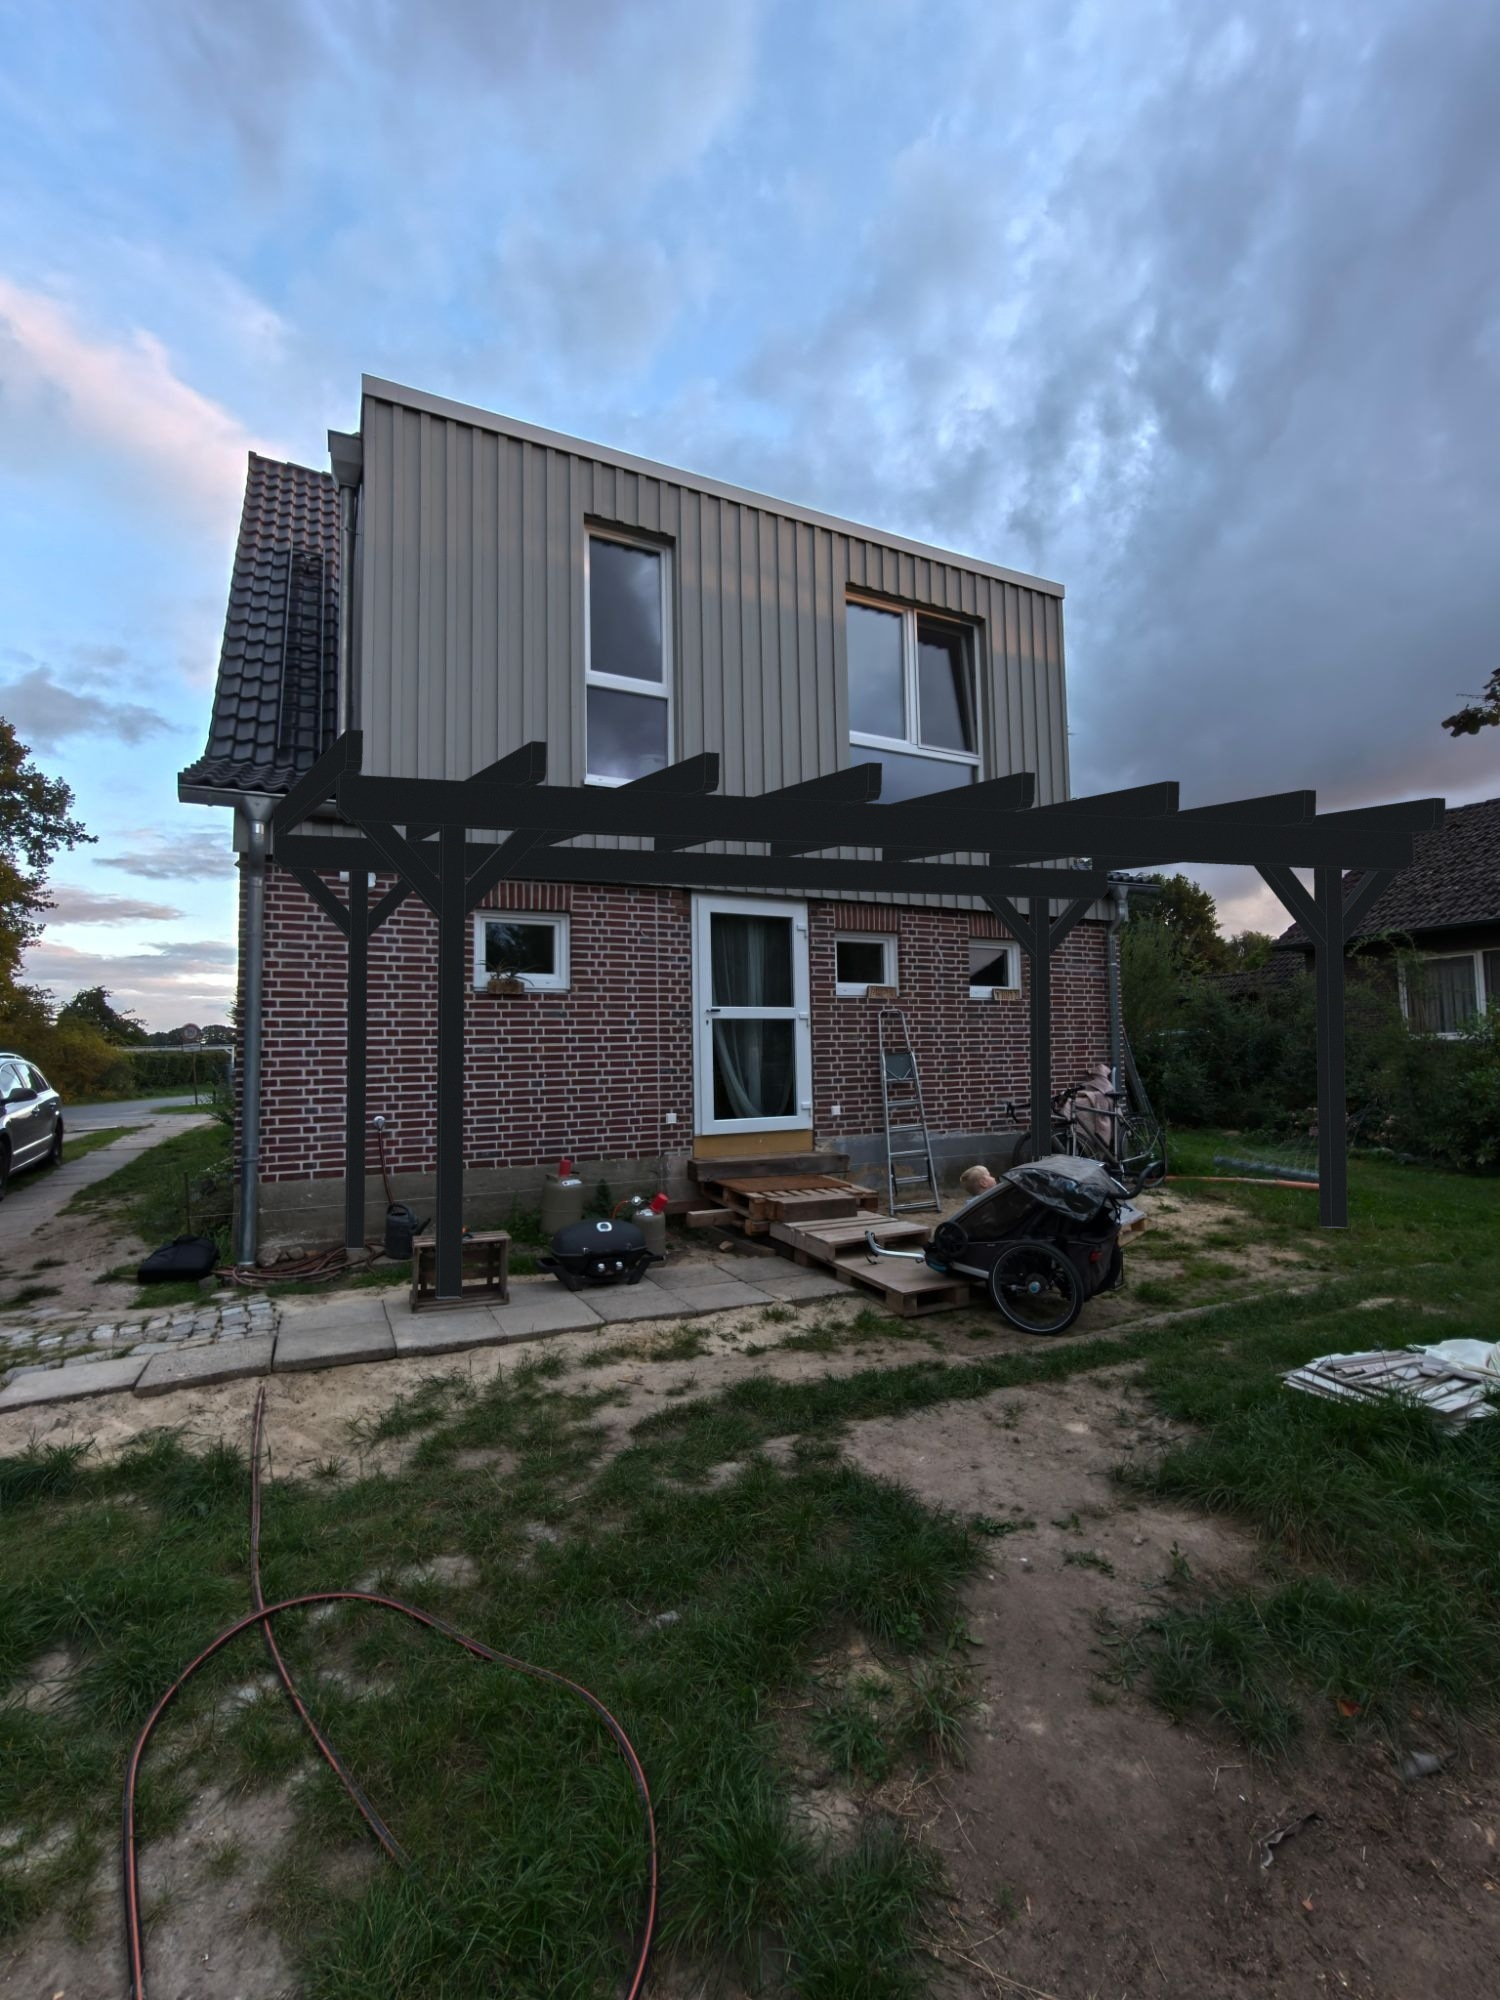
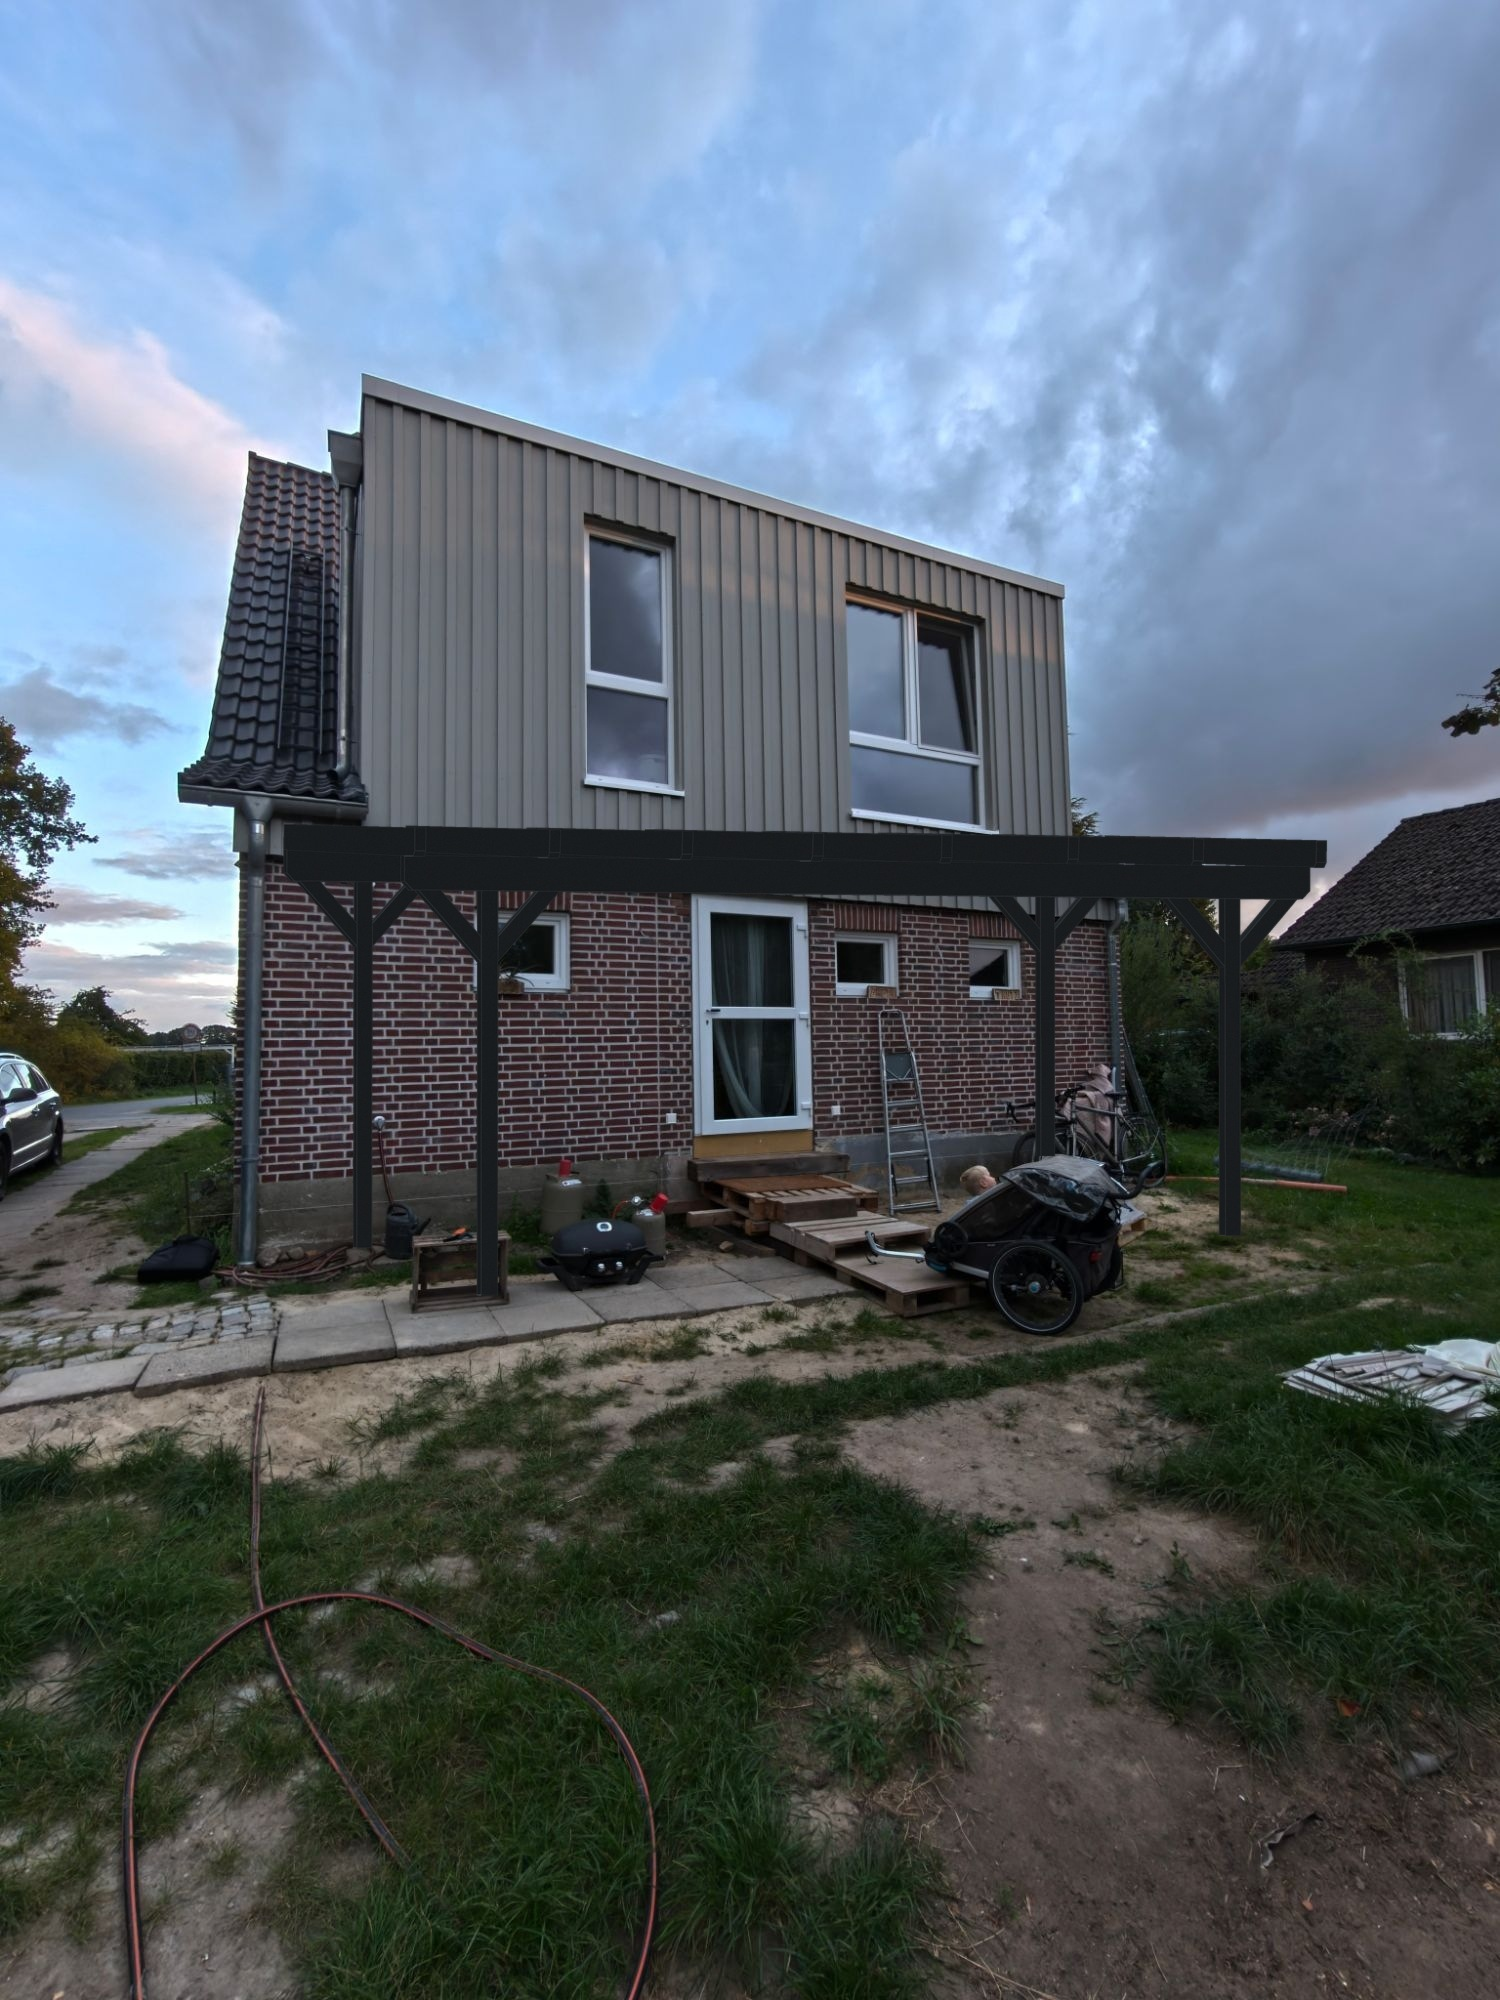
Visualisierung: Tiefenspreizung reduziert (virtuelle Kamera D=40 m)
Vorderkante erscheint nur noch ~10 % breiter als die Wandebene,
Fluchtlinien weiterhin am Foto kalibriert. Groessenwirkung entspricht
jetzt den realen 6,80 m zwischen den Fallrohren.

Claude-Session: https://claude.ai/code/session_01UVbrZFUKP6YXkDm2eNCtTw

diff --git a/visualisierungen/montage_ifc.py b/visualisierungen/montage_ifc.py
@@ -7,7 +7,7 @@ import re
 
 IFC = 'vordach.ifc'
 PHOTO = 'haus_neu.jpg'
-CAM = np.load('camera_D14.npy')        # f, D, yaw, pitch, yc, zc  (Fit an Wand-Homographie)
+CAM = np.load('camera_D40.npy')        # f, D, yaw, pitch, yc, zc  (Fit an Wand-Homographie)
 
 # ---------------- mini IFC parser (tessellierte Geometrie) ----------------
 ents = {}
